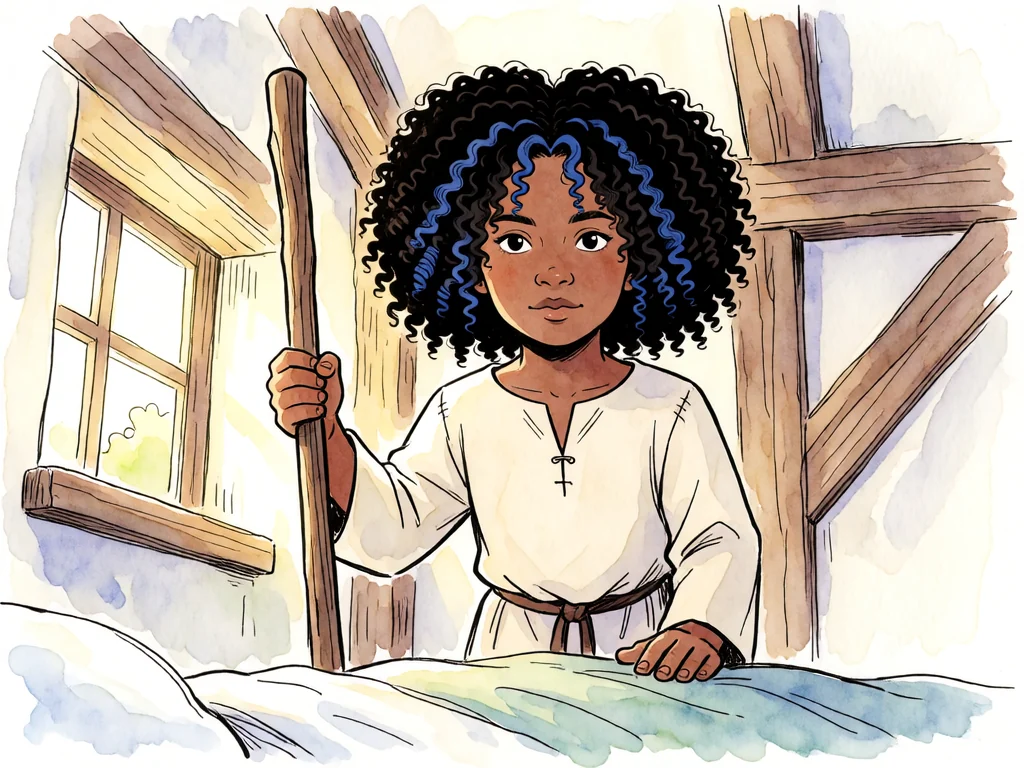
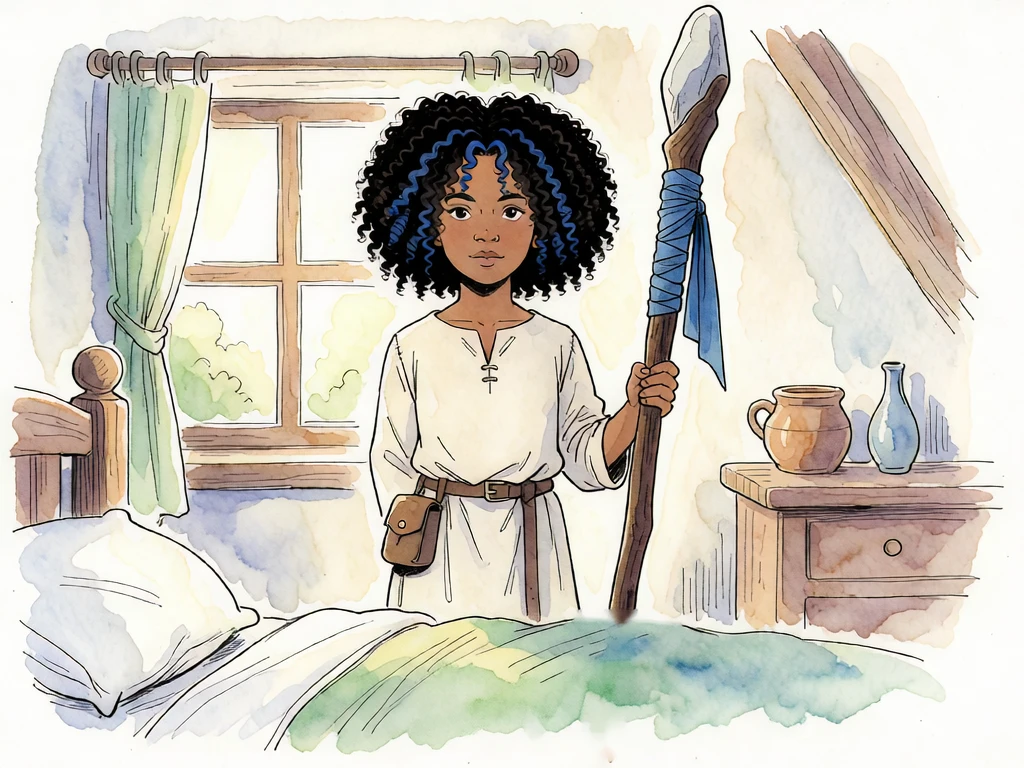
The dream complete: pictures 5, 6 and 8 locked, draft tag off
Claude-Session: https://claude.ai/code/session_01JTmPYBGE5RJi7qTbK5Qior

diff --git a/src/client/main.ts b/src/client/main.ts
@@ -2362,14 +2362,14 @@ function heldScene(p: Piece) {
 
 /**
  * Before run 1, the dream (DREAM in client/part1.ts): seven pictures cross-fading, the last going to
- * white, then a cut to Lumi over him with the game's first line, then run 1. Tagged: every picture is
- * the cutscene thread's pick, not seen by Ladi as a final.
+ * white, then a cut to Lumi over him with the game's first line, then run 1. All eight pictures locked
+ * by Ladi (26 Nov), so no draft tag.
  */
 function dreamScene(p: Piece) {
   const D = DREAM, el = document.createElement("div");
   el.id = "gap-scene";
   el.className = "morning four3";
-  el.innerHTML = `<div class="tags"><span class="nb">Draft</span><span>Pictures not seen by Ladi</span></div><div class="white"></div><p class="creed" aria-live="polite"></p><button class="ghost small out" aria-label="Leave">✕</button>`;
+  el.innerHTML = `<div class="white"></div><p class="creed" aria-live="polite"></p><button class="ghost small out" aria-label="Leave">✕</button>`;
   const pics = D.pictures.map((m) => storyCard(m.slot, "pic"));
   const wake = storyCard(D.wake.slot, "pic wake");
   el.prepend(...pics, wake);

diff --git a/CREDITS.md b/CREDITS.md
@@ -33,7 +33,7 @@ subscription-only billing so no Spark was spent. Sources are in the project file
 | story/kindling-underside.webp, story/kindling-heart-small.webp, story/kindling-heart-big.webp, story/kindling-hearts.webp, story/kindling-eye-glint.webp (run 1's ending: the home island from below in its horseshoe shape, both hearts down to embers; the two hearts lit as separate layers; the sky from below with home in its new shape, approved by Ladi at 11:46 AM, "Islands from below lgtm"; and home's one light among them, the 2026-11-23 glint trimmed tighter) | Painted by the cutscene thread on Sogni, 2026-11-24 (`sogni/lanternfall/production/story/v4/`), with krea2_identity_edit_v1_2 on the subscription, 0 Spark, plus its own code, as that thread reports; it says Ladi approved the underside that day and chose two hearts. ❓ That thread has not read the model's licence terms, the same caveat as the run 8 stills. Converted to WebP, same size (1536 square) | Run 1's ending, over the rim and down the underside: the small heart under the Kindling ground lights first, then the big one at the tip; then the islands from below, home's light as bright as the score |
 | story/walk-kitchen.webp (Rook's kitchen, walk 2) | The cutscene art thread's picture (`production/story/part1/kitchen/kitchen-tappable-walk2-draft-3.png`, 2026-11-24), the lantern with its approved hook handle; that thread reports Ladi's "Yes" at 11:47 AM on 2026-11-24 as covering it. ❓ It has not read the model's licence terms, the same caveat as its other pictures. Converted to WebP at 1280 px |
 | story/evening-1.webp and story/evening-2.webp (the evening after Granny's game, 3-4a) | The cutscene art thread's pictures (`production/story/part1/evening/`, drawn on Sogni on the subscription as that thread reports). Picture 1, the pond at sunset, replaced on 2026-11-26 by `evening-pond-final-3.png` (Lumi's right hand back, a younger face, Sefa looking up at Rook), locked by Ladi; picture 2 from `evening-kitchen-night-final-1.png`. ❓ That thread has not read the model's licence terms, the same caveat as its other pictures. Converted to WebP at 1280 px | Part 1's evening scene, 3-4a (`src/client/part1.ts` EVENING) |
-| story/gt-*.webp (the glow test before run 6, seven wide pictures with two light layers), story/dream-*.webp (the dream before run 1, eight pictures), story/skiff-*.webp (the skiff coming in at sunset and leaving the next morning, 4-5, redrawn from the personas on Ladi's notes in `production/story/part1/skiff-home/final-3/` (the arrival; replaced on 2026-11-26 by that folder's later save of `skiff-1-arrives-sunset.png`, which fixes Kes's extra hand, approved by Ladi) and `final-2/` (leaving); the first set's three are no longer used), story/sendoff-*.webp (the beacon and the send-off, 8-9b, thirteen pictures), story/handoff-*.webp (before the stranger's ship, 9-10, eight pictures; picture 4, the ferryman calling, replaced on 2026-11-26 by story row S4, `production/story/runs9-10/s4-over-here-l.png`, approved by Ladi, cropped to 4:3 by the cutscene thread, the crop not seen by Ladi), story/offering-*.webp (the Offering, 11, 25 pictures, rebuilt from the game's own island in `production/story/offering/final-2/`; the first draft is no longer used; pictures 4 and 7 replaced on 2026-11-25 by the third set, `stills-v3/04-falls-wide-a` and `07-lumi-turns-f`, cropped to 4:3 and approved by Ladi; picture 4 replaced again on 2026-11-26 by the ink redraw `stills-v3/04-falls-final` and picture 7 by `stills-v3/07-lumi-final`, both approved by Ladi, the crops the cutscene thread's; picture 1 replaced on 2026-11-26 by `stills-v3/01-landing-final`, picture 5 by `stills-v3/05-lumi-final` and picture 3 by `stills-v3/03-tip-final-3` (Lumi at true scale on the stone and the boat, locked by Ladi), all approved by Ladi, cropped to 4:3 by the cutscene thread, the crops not seen by Ladi; picture 8 replaced on 2026-11-26 by `stills-v3/08-rim-final` (Rook on the bank, Lumi on the stone turned to him), locked by Ladi, the 1024x768 crop the cutscene thread's; picture 9 replaced on 2026-11-26 by `stills-v3/09-door-final` (Hesta by Rook's door, facing him), locked by Ladi, the 1024x768 crop the cutscene thread's; picture 11 replaced on 2026-11-26 by `stills-v3/11-side-final` (Hesta leads Rook round behind his house), locked by Ladi, the 1024x768 crop the cutscene thread's; pictures 12 to 15 replaced on 2026-11-26 by `stills-v3/12-rook-final`, `13-hesta-final`, `14-kneel-final` and `15-hesta-final`, picture 16 by `16-rook-final` and picture 17 by `17-hesta-final`, pictures 6 and 10 by the cutscene thread's `offering-06-mooring` and `offering-10-rook` stills, and pictures 18, 19, 20, 22, 23, 24 and 25 by its `offering-18-line`, `19-rim`, `20-tip`, `22-under`, `23-fall`, `24-fall` and `25-out` stills (23 and 24 relocked on 2026-11-26 from `stills-v3/23-fall-final-2` and `24-fall-final-2`, the lantern smaller and to one side, a hand composite, 0 Spark; 22 relocked the same day from `stills-v3/22-under-final-2`, a hand composite on a krea2_identity_edit_v1_2 plate, 0 Spark), and pictures 2 and 21 by `stills-v3/02-path-final` (a krea2_identity_edit_v1_2 repaint of the map view, 0 Spark, with Rook composited by hand) and `stills-v3/21-lumi-final` (Lumi on the picture-21 plate, krea2_identity_edit_v1_2, the lantern from `lant2/lit.png`, cleaned up by hand), locked by Ladi; every Offering picture is now locked, the 1024x768 crops the cutscene thread's) and story/hands-*.webp (Hesta's hands at night and the morning after, 7-8b, four pictures and a shake layer) | The cutscene art thread's final sets (`production/story/part1/glowtest/final/`, `production/story/dream/final/`, `production/story/part1/skiff-home/final/`, `production/story/part1/send-off/final/`, `production/story/handoff-9-10/final/`, `production/story/offering/final/` and `production/story/part1/hands/final/`, 2026-11-25), drawn on Sogni on the subscription as that thread reports, 0 Spark. Glow test: six pictures approved by Ladi on 23 and 24 Nov; gt-5-rook-proud is that thread's pick, not seen by Ladi. Dream: pictures 1 to 5 replaced on 2026-11-26 by `production/story/dream/final-2/` (krea2_identity_edit_v1_2 renders, 0 Spark, a hand-composited lantern in 3); 1 to 3 locked by Ladi; 4 reopened by Ladi the same day and replaced by `final-2/dream-4-hands-2` (hand-pasted face edits), locked; 5 reopened and being redrawn (the final-2 file stays in until then); 7 replaced on 2026-11-26 by `final-2/dream-7-lantern` (krea2_identity_edit_v1_2, 0 Spark, a hand composite and a skin-tone fix on Hesta's hand), locked; 6 and 8 are that thread's picks, Ladi saw the rough storyboard only, and are being redrawn. Skiff home, send-off, hands, the pictures before the ship and the Offering: that thread's picks, not seen by Ladi. ❓ That thread has not read the model's licence terms, the same caveat as its other pictures. Converted to WebP (glow test 1920x1080, dream 1024x768) | Part 1's held-picture scenes 0, 4-5, 5-6b, 7-8b, 8-9b, 9-10 and 11 (`src/client/part1.ts` DREAM, HELD and GLOW) |
+| story/gt-*.webp (the glow test before run 6, seven wide pictures with two light layers), story/dream-*.webp (the dream before run 1, eight pictures), story/skiff-*.webp (the skiff coming in at sunset and leaving the next morning, 4-5, redrawn from the personas on Ladi's notes in `production/story/part1/skiff-home/final-3/` (the arrival; replaced on 2026-11-26 by that folder's later save of `skiff-1-arrives-sunset.png`, which fixes Kes's extra hand, approved by Ladi) and `final-2/` (leaving); the first set's three are no longer used), story/sendoff-*.webp (the beacon and the send-off, 8-9b, thirteen pictures), story/handoff-*.webp (before the stranger's ship, 9-10, eight pictures; picture 4, the ferryman calling, replaced on 2026-11-26 by story row S4, `production/story/runs9-10/s4-over-here-l.png`, approved by Ladi, cropped to 4:3 by the cutscene thread, the crop not seen by Ladi), story/offering-*.webp (the Offering, 11, 25 pictures, rebuilt from the game's own island in `production/story/offering/final-2/`; the first draft is no longer used; pictures 4 and 7 replaced on 2026-11-25 by the third set, `stills-v3/04-falls-wide-a` and `07-lumi-turns-f`, cropped to 4:3 and approved by Ladi; picture 4 replaced again on 2026-11-26 by the ink redraw `stills-v3/04-falls-final` and picture 7 by `stills-v3/07-lumi-final`, both approved by Ladi, the crops the cutscene thread's; picture 1 replaced on 2026-11-26 by `stills-v3/01-landing-final`, picture 5 by `stills-v3/05-lumi-final` and picture 3 by `stills-v3/03-tip-final-3` (Lumi at true scale on the stone and the boat, locked by Ladi), all approved by Ladi, cropped to 4:3 by the cutscene thread, the crops not seen by Ladi; picture 8 replaced on 2026-11-26 by `stills-v3/08-rim-final` (Rook on the bank, Lumi on the stone turned to him), locked by Ladi, the 1024x768 crop the cutscene thread's; picture 9 replaced on 2026-11-26 by `stills-v3/09-door-final` (Hesta by Rook's door, facing him), locked by Ladi, the 1024x768 crop the cutscene thread's; picture 11 replaced on 2026-11-26 by `stills-v3/11-side-final` (Hesta leads Rook round behind his house), locked by Ladi, the 1024x768 crop the cutscene thread's; pictures 12 to 15 replaced on 2026-11-26 by `stills-v3/12-rook-final`, `13-hesta-final`, `14-kneel-final` and `15-hesta-final`, picture 16 by `16-rook-final` and picture 17 by `17-hesta-final`, pictures 6 and 10 by the cutscene thread's `offering-06-mooring` and `offering-10-rook` stills, and pictures 18, 19, 20, 22, 23, 24 and 25 by its `offering-18-line`, `19-rim`, `20-tip`, `22-under`, `23-fall`, `24-fall` and `25-out` stills (23 and 24 relocked on 2026-11-26 from `stills-v3/23-fall-final-2` and `24-fall-final-2`, the lantern smaller and to one side, a hand composite, 0 Spark; 22 relocked the same day from `stills-v3/22-under-final-2`, a hand composite on a krea2_identity_edit_v1_2 plate, 0 Spark), and pictures 2 and 21 by `stills-v3/02-path-final` (a krea2_identity_edit_v1_2 repaint of the map view, 0 Spark, with Rook composited by hand) and `stills-v3/21-lumi-final` (Lumi on the picture-21 plate, krea2_identity_edit_v1_2, the lantern from `lant2/lit.png`, cleaned up by hand), locked by Ladi; every Offering picture is now locked, the 1024x768 crops the cutscene thread's) and story/hands-*.webp (Hesta's hands at night and the morning after, 7-8b, four pictures and a shake layer) | The cutscene art thread's final sets (`production/story/part1/glowtest/final/`, `production/story/dream/final/`, `production/story/part1/skiff-home/final/`, `production/story/part1/send-off/final/`, `production/story/handoff-9-10/final/`, `production/story/offering/final/` and `production/story/part1/hands/final/`, 2026-11-25), drawn on Sogni on the subscription as that thread reports, 0 Spark. Glow test: six pictures approved by Ladi on 23 and 24 Nov; gt-5-rook-proud is that thread's pick, not seen by Ladi. Dream: all eight locked by Ladi on 2026-11-26, from `production/story/dream/final-2/` (krea2_identity_edit_v1_2 renders, 0 Spark): 1 to 3 as rendered, with a hand-composited lantern in 3; 4 from `dream-4-hands-2` and 6 with hand-pasted face edits (6 with skin tints too); 5 from `dream-5-face-2`; 7 with a hand composite and a skin-tone fix on Hesta's hand; 8 with a hand inpaint putting the staff behind the bed. Skiff home, send-off, hands, the pictures before the ship and the Offering: that thread's picks, not seen by Ladi. ❓ That thread has not read the model's licence terms, the same caveat as its other pictures. Converted to WebP (glow test 1920x1080, dream 1024x768) | Part 1's held-picture scenes 0, 4-5, 5-6b, 7-8b, 8-9b, 9-10 and 11 (`src/client/part1.ts` DREAM, HELD and GLOW) |
 | stills/w9-lumi-door.webp (Lumi at the door with the staff and no bag, with her first line in the morning walk before run 8) | A 4:3 crop of story/hands-4-morning-door.webp (the hands set's fourth picture, row above), made here on 2026-11-26 when the picture moved out of the hands scene into the walk on the story thread's advice. Same terms as that row | Walk 9, Lumi's "You packed one bag." |
 | faces/kes-{alarmed,bereft}.webp, faces/grandmother-{steady,soft,talking}.webp, faces/grandfather-neutral.webp (run 9) | Bubble faces from the cast art thread (project files `sogni/lanternfall/production/bubble-faces/`, 2026-11-24), 160 px WebP as delivered. Placeholders: the grandparents' look is a first draft Ladi has not approved, and Kes's two are being re-framed | Bark bubbles and the talk box in run 9; which face goes with which line is in `src/engine/moods.ts` |
 | models/low-house-{a,b,c}.glb, models/rescue-boat.glb, models/kes-drop.glb, models/cold-brazier.glb (run 9) | Draft 1 from the maps thread (project files `sogni/lanternfall/production/places/low-one/`, 2026-11-25): concepts by Sogni AI z_image_turbo_bf16, 3D by Sogni AI pixal3d_int8_i23d, slimmed and re-baked there; the boat's lamp post is procedural | The low one in run 9, in place of the block-outs (`src/client/rescue-dress.ts`) |
